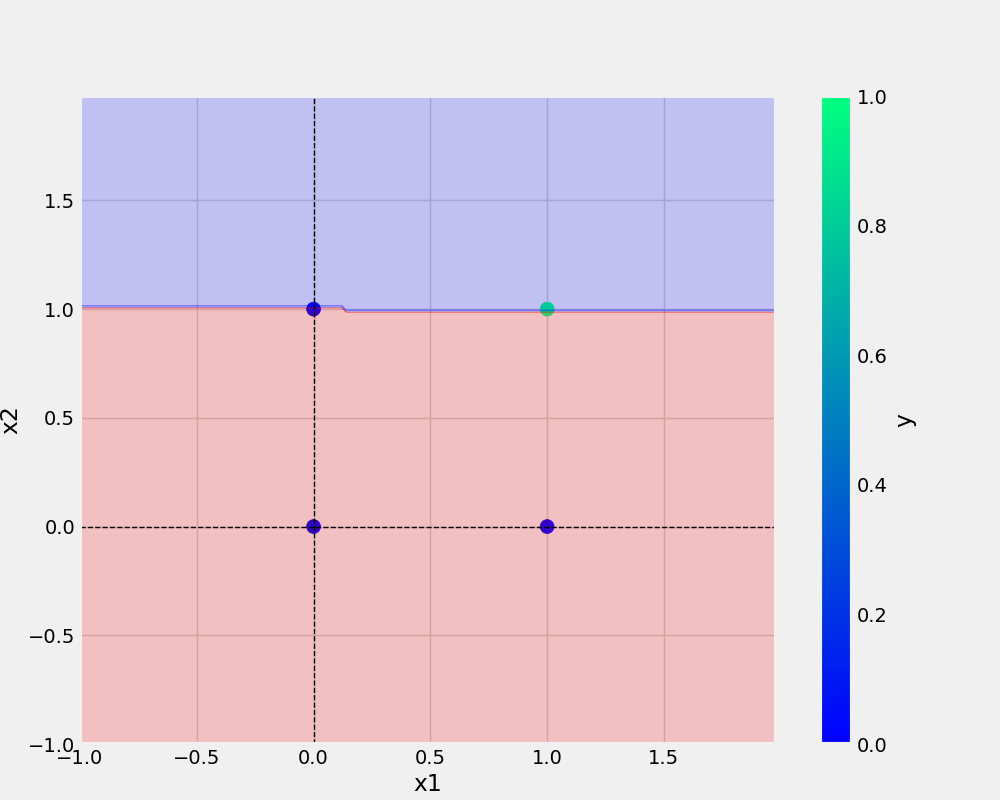
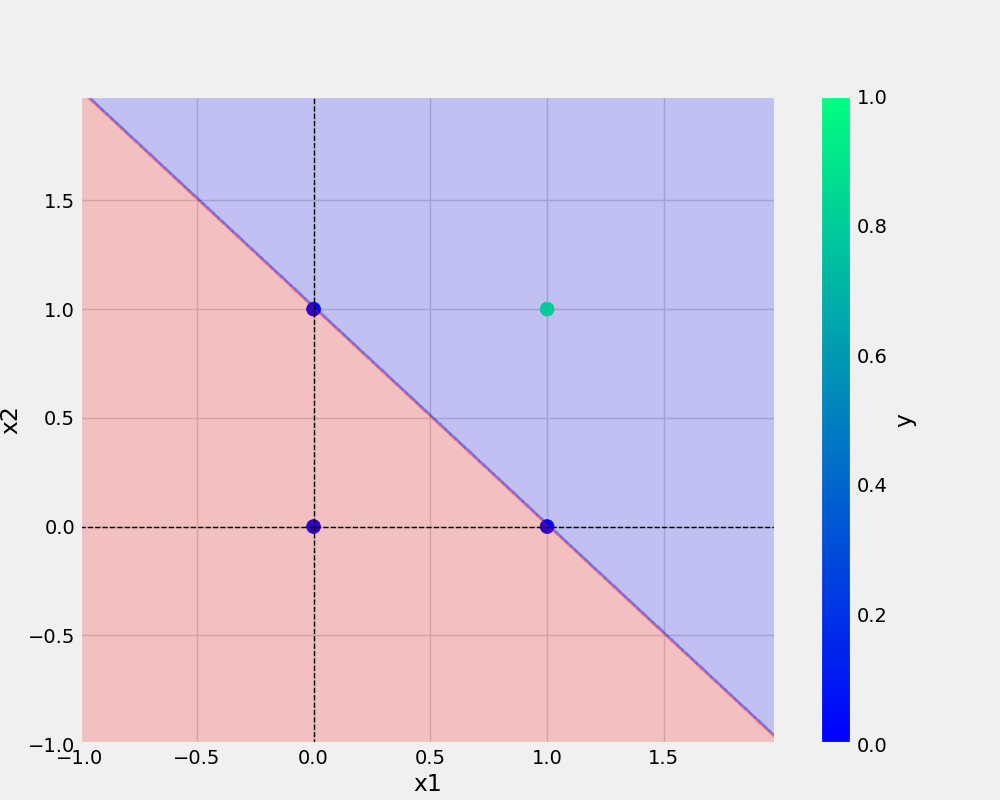
code organised

Changed region(s): [[0.062, 0.125, 0.775, 0.9375]]

diff --git a/or.py b/or.py
@@ -2,6 +2,7 @@ from utils.model import Perceptron
 from utils.all_util import prepare_data, save_plot,save_model
 import pandas as pd
 import numpy as np
+
 def main(data,eta,epochs,filename,plotFileName):
 
     df = pd.DataFrame(data)
@@ -16,11 +17,13 @@ def main(data,eta,epochs,filename,plotFileName):
     save_model(model,filename=filename)
     save_plot(df,plotFileName ,model)
 if __name__=="__main__":
-    AND = {
-    "x1": [0,0,1,1],
-    "x2": [0,1,0,1],
-    "y": [0,0,0,1],
+    OR = {
+        "x1": [0,0,1,1],
+        "x2": [0,1,0,1],
+        "y": [0,1,1,1],
     }
+
     ETA = 0.3 # 0 and 1
     EPOCHS = 10
-    main(data=AND,eta=ETA,epochs=EPOCHS,filename="and.model",plotFileName="and.png")
+    main(data=OR,eta=ETA,epochs=EPOCHS,filename="or.model",plotFileName="or.png")
+
